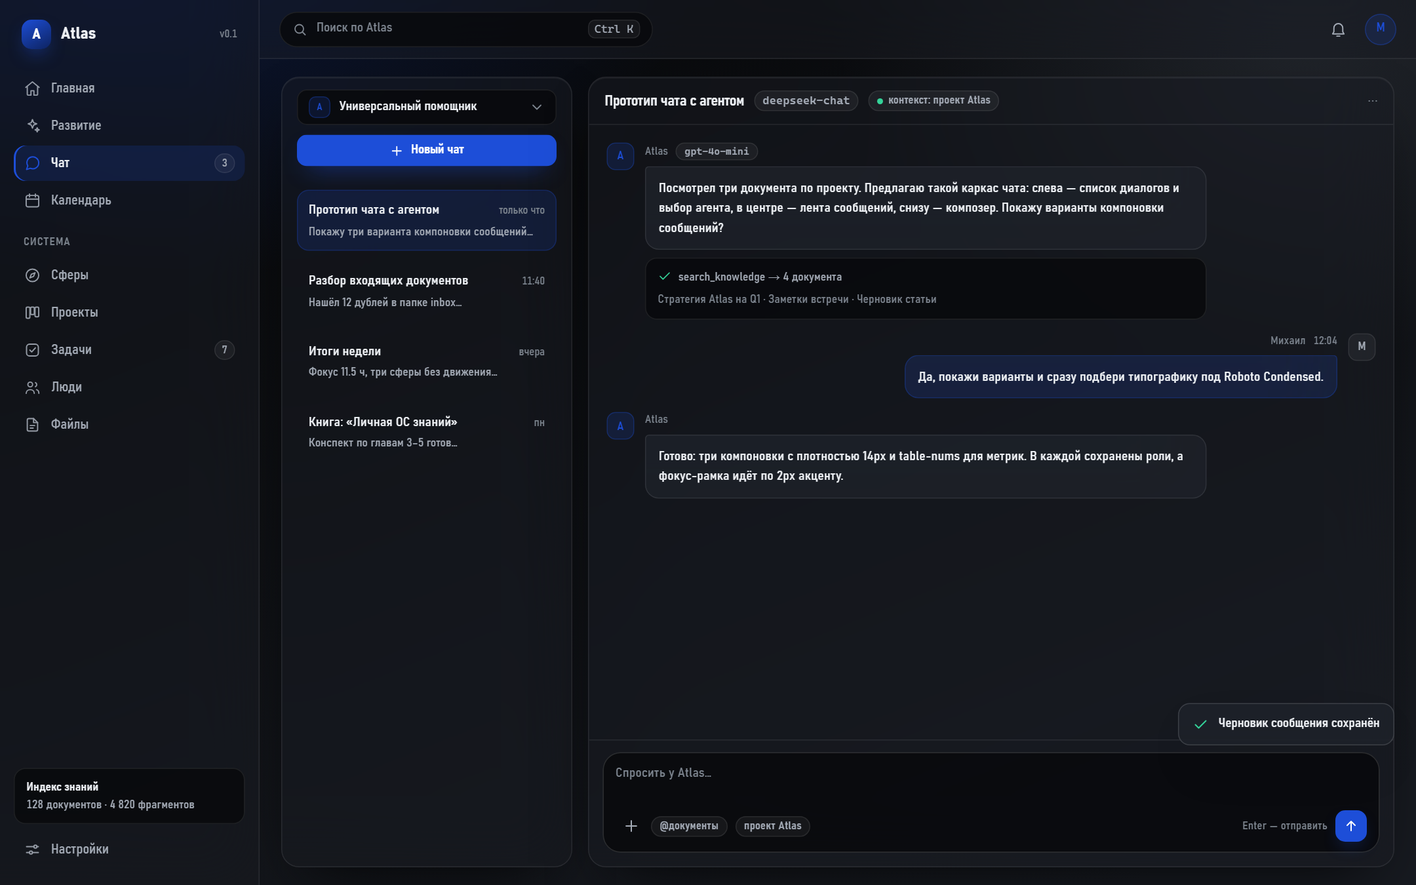
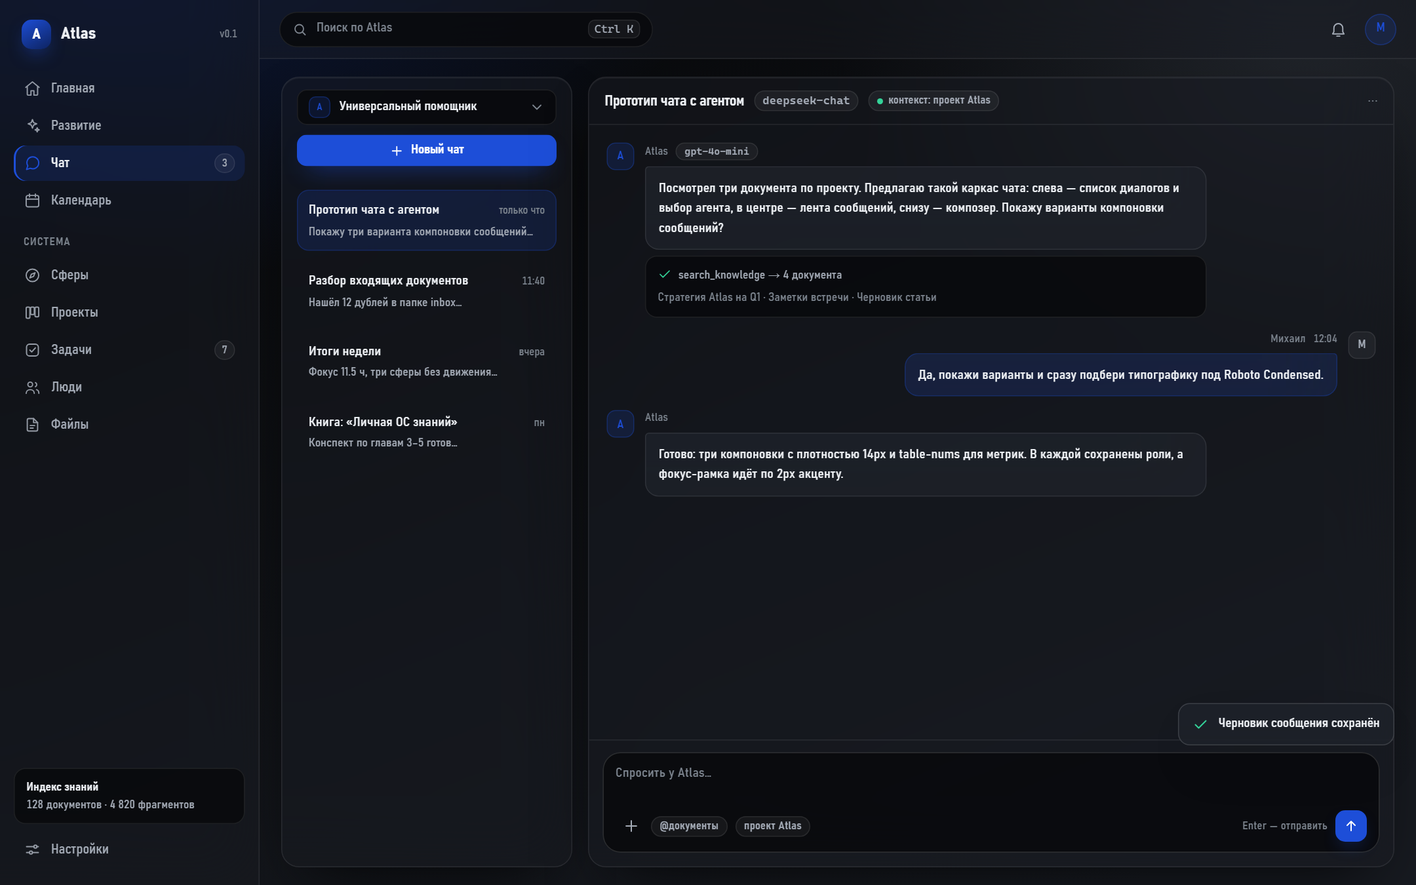
devkit: E-710FC7ED план эпика и макеты Graphite

diff --git a/.tmp/design/mockup.html b/.tmp/design/mockup.html
@@ -2,9 +2,8 @@
 <html lang="ru">
 <head>
 <meta charset="utf-8" />
-<title>Atlas — вариант дизайна</title>
+<title>Atlas — Graphite</title>
 <style>
-  /* ─── токены: общие ─────────────────────────────────────────── */
   :root {
     --blur: 30px;
     --blur-raised: 40px;
@@ -19,7 +18,7 @@
     --ease: cubic-bezier(.2, .8, .2, 1);
   }
 
-  /* ─── Graphite: обе темы, акцент ставится из настроек ───────── */
+  /* Graphite: тёмная тема, акцент ставится из настроек */
   body {
     --accent: #1d4ed8;
     --accent-soft: rgba(29, 78, 216, .16);
@@ -30,6 +29,7 @@
     --bg1: #171a20;
     --surface: rgba(24, 27, 33, .52);
     --raised: rgba(30, 34, 41, .80);
+    --menu-bg: rgba(26, 30, 36, .97);
     --sunken: rgba(9, 10, 12, .88);
     --hover: rgba(255, 255, 255, .05);
     --text: #eef1f5;
@@ -43,15 +43,14 @@
   }
 
   body[data-mode="light"] {
-    --accent: #1d4ed8;
     --accent-soft: rgba(29, 78, 216, .10);
-    --on-accent: #ffffff;
     --glow1: rgba(29, 78, 216, .12);
     --glow2: rgba(148, 163, 184, .22);
     --bg0: #f7f8fa;
     --bg1: #e7ebf1;
     --surface: rgba(255, 255, 255, .62);
     --raised: rgba(255, 255, 255, .90);
+    --menu-bg: rgba(255, 255, 255, .985);
     --sunken: rgba(255, 255, 255, .95);
     --hover: rgba(15, 23, 42, .05);
     --text: #12161c;
@@ -64,7 +63,6 @@
     --shadow: 0 20px 44px -28px rgba(15, 23, 42, .38);
   }
 
-  /* ─── база ──────────────────────────────────────────────────── */
   * { box-sizing: border-box; }
   html, body { height: 100%; margin: 0; }
   body {
@@ -94,13 +92,10 @@
   .num { font-variant-numeric: tabular-nums; }
   .mono { font-family: var(--mono); font-size: 12px; }
 
-  /* ─── каркас ────────────────────────────────────────────────── */
+  /* каркас */
   .app { display: grid; grid-template-columns: 264px 1fr; height: 100vh; }
-
   .sidebar {
-    display: flex;
-    flex-direction: column;
-    gap: 4px;
+    display: flex; flex-direction: column; gap: 4px;
     padding: 18px 14px;
     background: var(--surface);
     backdrop-filter: blur(var(--blur)) saturate(150%);
@@ -154,7 +149,6 @@
   .store-card b { color: var(--text); font-weight: 500; }
 
   .main { display: flex; flex-direction: column; min-width: 0; }
-
   .topbar {
     display: flex; align-items: center; gap: 14px;
     height: 60px; padding: 0 20px;
@@ -198,7 +192,7 @@
   body[data-screen="chat"] #chat { display: flex; }
   body[data-screen="settings"] #settings { display: block; }
 
-  /* ─── общие примитивы ───────────────────────────────────────── */
+  /* примитивы */
   .panel {
     background: var(--surface);
     backdrop-filter: blur(var(--blur)) saturate(145%);
@@ -224,14 +218,14 @@
     color: var(--text);
     transition: transform var(--dur) var(--ease), background var(--dur) var(--ease), border-color var(--dur) var(--ease);
   }
-  .btn:hover { border-color: var(--border-strong); background: color-mix(in srgb, var(--hover) 60%, var(--surface)); }
+  .btn:hover { border-color: var(--border-strong); }
   .btn:active { transform: translateY(1px); }
   .btn svg { width: 15px; height: 15px; }
   .btn-primary {
     background: var(--accent); border-color: transparent; color: var(--on-accent);
     box-shadow: 0 10px 24px -12px var(--accent);
   }
-  .btn-primary:hover { background: color-mix(in srgb, var(--accent) 88%, #fff); border-color: transparent; }
+  .btn-primary:hover { border-color: transparent; }
   .btn-ghost { background: transparent; }
 
   .pill {
@@ -247,7 +241,7 @@
   .pill-ok { color: var(--ok); background: color-mix(in srgb, var(--ok) 14%, transparent); border-color: color-mix(in srgb, var(--ok) 30%, transparent); }
   .dot { width: 6px; height: 6px; border-radius: 50%; background: currentColor; }
 
-  /* ─── главная ───────────────────────────────────────────────── */
+  /* главная */
   .page-head { display: flex; align-items: flex-end; gap: 16px; margin-bottom: 16px; }
   .eyebrow { font-size: 11.5px; letter-spacing: .09em; text-transform: uppercase; color: var(--faint); margin-bottom: 6px; }
   .page-head h1 { font-size: 28px; font-weight: 500; }
@@ -285,11 +279,7 @@
     border: 1.5px solid var(--border-strong);
     flex: none;
   }
-  .check.done {
-    border-color: var(--accent);
-    background: var(--accent);
-    position: relative;
-  }
+  .check.done { border-color: var(--accent); background: var(--accent); position: relative; }
   .check.done::after {
     content: ""; position: absolute; inset: 4px 4px 5px;
     border-left: 1.7px solid var(--on-accent); border-bottom: 1.7px solid var(--on-accent);
@@ -330,7 +320,7 @@
   .agent-card p { color: var(--muted); font-size: 13px; }
   .agent-card .btn { align-self: flex-start; }
 
-  /* ─── чат ───────────────────────────────────────────────────── */
+  /* чат */
   #chat { gap: 16px; height: 100%; }
   .chat-list { width: 296px; flex: none; display: flex; flex-direction: column; overflow: hidden; }
   .chat-list .panel-body { display: flex; flex-direction: column; gap: 10px; min-height: 0; }
@@ -348,10 +338,7 @@
     transition: background var(--dur) var(--ease);
   }
   .chat-item:hover { background: var(--hover); }
-  .chat-item.active {
-    background: var(--accent-soft);
-    border-color: color-mix(in srgb, var(--accent) 26%, transparent);
-  }
+  .chat-item.active { background: var(--accent-soft); border-color: color-mix(in srgb, var(--accent) 26%, transparent); }
   .chat-item .t { font-size: 13.5px; display: flex; gap: 8px; align-items: center; }
   .chat-item .t span { color: var(--faint); font-size: 11px; margin-left: auto; }
   .chat-item .p { font-size: 12px; color: var(--muted); overflow: hidden; text-overflow: ellipsis; white-space: nowrap; }
@@ -386,14 +373,13 @@
   .msg.user .msg-avatar { background: var(--hover); color: var(--muted); border-color: var(--border); }
 
   .tool-card {
-    margin-top: 2px; border: 1px solid var(--border); border-radius: var(--r-md);
+    border: 1px solid var(--border); border-radius: var(--r-md);
     background: var(--sunken); padding: 10px 12px;
     display: flex; flex-direction: column; gap: 6px;
   }
   .tool-card .th { display: flex; align-items: center; gap: 7px; font-size: 12px; color: var(--muted); }
   .tool-card .th svg { width: 14px; height: 14px; color: var(--ok); }
   .tool-card .tf { font-size: 12px; color: var(--faint); }
-  .sources { display: flex; gap: 6px; flex-wrap: wrap; margin-top: 4px; }
 
   .composer { border-top: 1px solid var(--border); padding: 12px 14px 14px; }
   .composer-box {
@@ -415,7 +401,7 @@
   }
   .send svg { width: 16px; height: 16px; }
 
-  /* ─── настройки ─────────────────────────────────────────────── */
+  /* настройки */
   .settings-grid { grid-template-columns: 1.5fr 1fr; }
   .stack-sm { display: flex; flex-direction: column; gap: 12px; }
   .field { display: flex; flex-direction: column; gap: 6px; }
@@ -435,20 +421,17 @@
   }
   .input .link { margin-left: auto; font-size: 12px; color: var(--accent); }
   .input .chev { margin-left: auto; color: var(--faint); }
-  .rel { position: relative; }
+  .rel { position: relative; margin-bottom: 118px; }
   .hint-line { font-size: 11.5px; color: var(--faint); }
   .menu {
     position: absolute; z-index: 20; top: 100%; left: 0; margin-top: 6px; min-width: 260px;
     border-radius: 12px; padding: 6px;
-    background: var(--raised);
+    background: var(--menu-bg);
     backdrop-filter: blur(var(--blur-raised)) saturate(160%);
     border: 1px solid var(--border-strong);
     box-shadow: var(--shadow);
   }
-  .menu-item {
-    display: flex; align-items: center; gap: 8px;
-    height: 32px; padding: 0 9px; border-radius: 8px; font-size: 13px;
-  }
+  .menu-item { display: flex; align-items: center; gap: 8px; height: 32px; padding: 0 9px; border-radius: 8px; font-size: 13px; }
   .menu-item:hover { background: var(--hover); }
   .menu-item.active { background: var(--accent-soft); color: var(--text); }
   .menu-item .mono { margin-left: auto; color: var(--faint); }
@@ -460,22 +443,16 @@
   }
   .seg button { height: 28px; padding: 0 12px; border-radius: 8px; font-size: 12.5px; color: var(--muted); }
   .seg button[aria-pressed="true"] { background: var(--accent); color: var(--on-accent); }
-  .swatches { display: flex; gap: 8px; flex-wrap: wrap; }
-  .swatch {
-    width: 26px; height: 26px; border-radius: 9px;
-    border: 1px solid rgba(255, 255, 255, .18);
-  }
+  .swatches { display: flex; gap: 6px; flex-wrap: wrap; }
+  .swatch { width: 22px; height: 22px; border-radius: 8px; border: 1px solid rgba(255, 255, 255, .18); }
   .swatch[aria-pressed="true"] { box-shadow: 0 0 0 2px var(--bg0), 0 0 0 3.5px var(--text); }
-  .toggle {
-    display: block; width: 38px; height: 22px; border-radius: 999px;
-    background: var(--accent); position: relative;
-  }
+  .toggle { display: block; width: 38px; height: 22px; border-radius: 999px; background: var(--accent); position: relative; }
   .toggle::after {
     content: ""; position: absolute; top: 3px; right: 3px;
     width: 16px; height: 16px; border-radius: 50%; background: var(--on-accent);
   }
   .setting-row {
-    display: flex; align-items: center; gap: 12px;
+    display: flex; align-items: center; gap: 12px; flex-wrap: wrap;
     padding: 10px 0; border-bottom: 1px solid var(--border);
   }
   .setting-row:last-child { border-bottom: 0; }
@@ -494,7 +471,7 @@
     color: var(--text);
   }
 
-  /* ─── S3: тост ──────────────────────────────────────────────── */
+  /* S3: тост */
   .toast {
     position: fixed; right: 22px; bottom: 142px;
     display: none; align-items: center; gap: 10px;
@@ -509,7 +486,7 @@
   body[data-screen="chat"] .toast { display: flex; }
 </style>
 </head>
-<body data-palette="navy" data-screen="home">
+<body data-mode="dark" data-screen="home">
 
 <div class="app">
   <aside class="sidebar">
@@ -590,7 +567,6 @@
     </header>
 
     <main class="content">
-      <!-- ─── ГЛАВНАЯ ─────────────────────────────────────────── -->
       <section id="home" class="screen">
         <div class="page-head">
           <div>
@@ -781,7 +757,6 @@
         </div>
       </section>
 
-      <!-- ─── ЧАТ ─────────────────────────────────────────────── -->
       <section id="chat" class="screen">
         <section class="panel chat-list">
           <div class="panel-body">
@@ -984,14 +959,14 @@
                     <div class="s">Кнопки, ссылки, фокус, прогресс</div>
                   </div>
                   <div class="ctl swatches">
-                      <button class="swatch" data-accent="#1d4ed8" title="синий" style="background:#1d4ed8" aria-pressed="false"></button>
-                      <button class="swatch" data-accent="#0284c7" title="небо" style="background:#0284c7" aria-pressed="false"></button>
-                      <button class="swatch" data-accent="#059669" title="изумруд" style="background:#059669" aria-pressed="false"></button>
-                      <button class="swatch" data-accent="#7c3aed" title="фиолет" style="background:#7c3aed" aria-pressed="false"></button>
-                      <button class="swatch" data-accent="#db2777" title="роза" style="background:#db2777" aria-pressed="false"></button>
-                      <button class="swatch" data-accent="#ea580c" title="оранж" style="background:#ea580c" aria-pressed="false"></button>
-                      <button class="swatch" data-accent="#b91c1c" title="красный" style="background:#b91c1c" aria-pressed="false"></button>
-                      <button class="swatch" data-accent="#334155" title="графит" style="background:#334155" aria-pressed="false"></button>
+                    <button class="swatch" data-accent="#1d4ed8" title="синий" style="background:#1d4ed8" aria-pressed="true"></button>
+                    <button class="swatch" data-accent="#0284c7" title="небо" style="background:#0284c7" aria-pressed="false"></button>
+                    <button class="swatch" data-accent="#059669" title="изумруд" style="background:#059669" aria-pressed="false"></button>
+                    <button class="swatch" data-accent="#7c3aed" title="фиолет" style="background:#7c3aed" aria-pressed="false"></button>
+                    <button class="swatch" data-accent="#db2777" title="роза" style="background:#db2777" aria-pressed="false"></button>
+                    <button class="swatch" data-accent="#ea580c" title="оранж" style="background:#ea580c" aria-pressed="false"></button>
+                    <button class="swatch" data-accent="#b91c1c" title="красный" style="background:#b91c1c" aria-pressed="false"></button>
+                    <button class="swatch" data-accent="#334155" title="графит" style="background:#334155" aria-pressed="false"></button>
                   </div>
                 </div>
 

diff --git a/docs/plans/epic-E-710FC7ED.md b/docs/plans/epic-E-710FC7ED.md
@@ -1,0 +1,109 @@
+---
+title: План эпика E-710FC7ED — дизайн-система и доработки фронтенда (pass 2)
+status: draft
+tz: docs/tz/TZ-2F2279C9.md
+mode: solo
+updated: 2026-11-27
+---
+
+# План эпика E-710FC7ED
+
+ТЗ: [docs/tz/TZ-2F2279C9.md](../tz/TZ-2F2279C9.md). Режим — solo: задачи идут
+последовательно по зависимостям, каждая в своей ветке `devkit/<task-id>`.
+Макеты-референсы (не в репозитории): `.tmp/design/mockup.html`,
+`.tmp/design/out/graphite-*.png` — Graphite, обе темы, акцент-пресеты.
+
+## 1. Цель и критерии готовности
+
+**Цель:** единая дизайн-система на всех экранах (Graphite + стекло, Roboto
+Condensed, Emotion, LazyMotion), рабочий deep link и страница 404, подключение
+модели с провайдером и списком моделей с сервера, каталог фронтенда называется
+`web/`.
+
+**Готовность эпика:** выполнены Acceptance A1–A10 из ТЗ; обязательные проверки
+профиля (`web-build` → … → `arch-python`) зелёные на последнем коммите каждой
+задачи; e2e и axe проходят; `rg -i viewer repo/atlas` не даёт живых ссылок.
+
+## 2. Этапы
+
+| Этап | Результат | Задачи |
+|---|---|---|
+| M1. Фундамент | новые токены, Emotion, шрифт, motion, примитивы, каркас, `docs/DESIGN.md`; страницы ещё на старом CSS | T-4FC8A97B |
+| M2. Бэкенд-функции | список моделей и необязательный ключ; SPA-fallback; оба работают независимо от вида страниц | T-D24FD0BF, T-59D31937 |
+| M3. Первые экраны | Главная, Чат, Вход, Онбординг; проверяем систему на живых экранах до массового перевода | T-F4778357 |
+| M4. Тяжёлые экраны | Календарь, Задачи (SVAR), Файлы — проверка вендорных виджетов | T-7805803A |
+| M5. Сущности | Сферы, Проекты, Проект, Люди, Профиль, Развитие | T-28C2A79F |
+| M6. Второй контур | Настройки (+ «Оформление»), Агенты, Уведомления, Задания, Поиск, Space; удаление последних `.css` | T-7E446096 |
+| M7. Переименование | `viewer/` → `web/`, CI-artifact `web-dist`, тесты и docs | T-EAD5B055 |
+
+## 3. Задачи
+
+| ID | Задача | Тип | Размер | Зависит от |
+|---|---|---|---|---|
+| T-4FC8A97B | Дизайн-система: токены, Emotion, шрифт, motion, примитивы, каркас | feature | L | — |
+| T-D24FD0BF | Подключение LLM: провайдер, ключ, список моделей | feature | L | T-4FC8A97B |
+| T-59D31937 | Роутинг: SPA-fallback и страница 404 | bug | M | T-4FC8A97B |
+| T-F4778357 | Экраны: Главная, Чат, Вход, Онбординг | feature | L | T-4FC8A97B, T-D24FD0BF |
+| T-7805803A | Экраны: Календарь, Задачи, Файлы | feature | L | T-4FC8A97B |
+| T-28C2A79F | Экраны: Сферы, Проекты, Проект, Люди, Профиль, Развитие | feature | L | T-4FC8A97B |
+| T-7E446096 | Экраны: Настройки, Агенты, Уведомления, Задания, Поиск, Space | feature | L | T-4FC8A97B, T-D24FD0BF |
+| T-EAD5B055 | Переименование `viewer/` в `web/` | chore | L | все задачи эпика |
+
+### Порядок и параллельность
+
+```
+T-4FC8A97B ──┬─> T-D24FD0BF ──┬─> T-F4778357
+             │                └─> T-7E446096
+             ├─> T-59D31937
+             ├─> T-7805803A
+             └─> T-28C2A79F
+                                все ──> T-EAD5B055
+```
+
+После M1 задачи M2 и M4–M5 независимы по файлам и могут идти в любом порядке;
+лента T-8 включает переименование последней, чтобы не переписывать пути в
+незакрытых задачах.
+
+Почему переименование последним: оно механически трогает `app/backend/main.py`,
+`tests/**`, CI и docs — те же файлы, что и остальные задачи. Перенос
+переименования вперёд увеличил бы конфликтную поверхность, не давая
+функционального выигрыша.
+
+## 4. Покрытие Acceptance
+
+| Критерий | Задачи | Проверки |
+|---|---|---|
+| A1 один `.css`, Emotion, проверки зелёные | T-4FC8A97B (+ удаление page css в T-7805803A, T-7E446096) | build, tsc, eslint, steiger, prettier |
+| A2 Roboto Condensed self-host | T-4FC8A97B | build (файлы в dist), e2e скриншот-контроль |
+| A3 все экраны на системе, axe = 0 | T-F4778357, T-7805803A, T-28C2A79F, T-7E446096 | a11y, e2e |
+| A4 `effects=off`, reduced-motion | T-4FC8A97B | e2e (`data-effects`) |
+| A5 motion на маршрутах/панелях/списках | T-4FC8A97B, T-F4778357 | e2e, ручная приёмка |
+| A6 настройки: тема, акцент, эффекты, фон | T-7E446096 | e2e |
+| A7 провайдер/ключ/модели | T-D24FD0BF, T-F4778357 | unit-tests (MockTransport), e2e |
+| A8 SPA-fallback и 404 | T-59D31937 | unit-tests, e2e |
+| A9 `viewer` вычищен, CI `web-dist` | T-EAD5B055 | все проверки профиля |
+| A10 проверки и тесты без ослаблений | каждая задача | профиль + `devkit task check` |
+
+## 5. Риски и как снимаем
+
+| Риск | Действие |
+|---|---|
+| Чужие виджеты (antd/SVAR/FullCalendar) не на Emotion | `vendor.ts` в T-4FC8A97B; вендорные темы закрываются в T-7805803A, при расхождении — отдельная задача с расширением scope через `replan` |
+| Контраст стекла ломает axe | текстовые поверхности ≥ .9 непрозрачности; axe-тест на 5 маршрутах + 404 гоняется в каждой экранной задаче |
+| Тесты читают исходники литералами (`test_web_build`, `test_viewer_acceptance`) | тексты и структуру сохраняем; при необходимости ассерты обновляются с владельцем, без `skip` |
+| Вес бандла | `LazyMotion`/`m`, 3 веса woff2 с subsetting, шрифты и живут в SW-кэше статики |
+| Шрифт недоступен офлайн для сборки | woff2 из `@fontsource/roboto-condensed` (OFL) кладутся в `viewer/public/fonts`; при недоступности пакета — владелец предоставляет файлы |
+| Порядок задач | зависимости зафиксированы в devkit; пересечение scope (`shared/ui/**`, `Settings.tsx`) идёт только парами «зависимая → зависимость» |
+
+## 6. Что не входит
+
+См. `## Вне scope` в ТЗ: замена библиотек, AG Grid, мобильные нижние табы, новые
+экраны и API вне `api_key?`/`POST /api/settings/llm/models`, i18n, переписывание
+архивных документов.
+
+## 7. Доказательства
+
+- ТЗ `TZ-2F2279C9` в git (commit sha фиксирует devkit).
+- Задачи с id, scope, verification, depends_on (devkit).
+- По каждой задаче: отчёт `docs/reports/<task-id>.md`, вывод проверок с exit
+  code, независимая проверка `devkit-team-check`.
